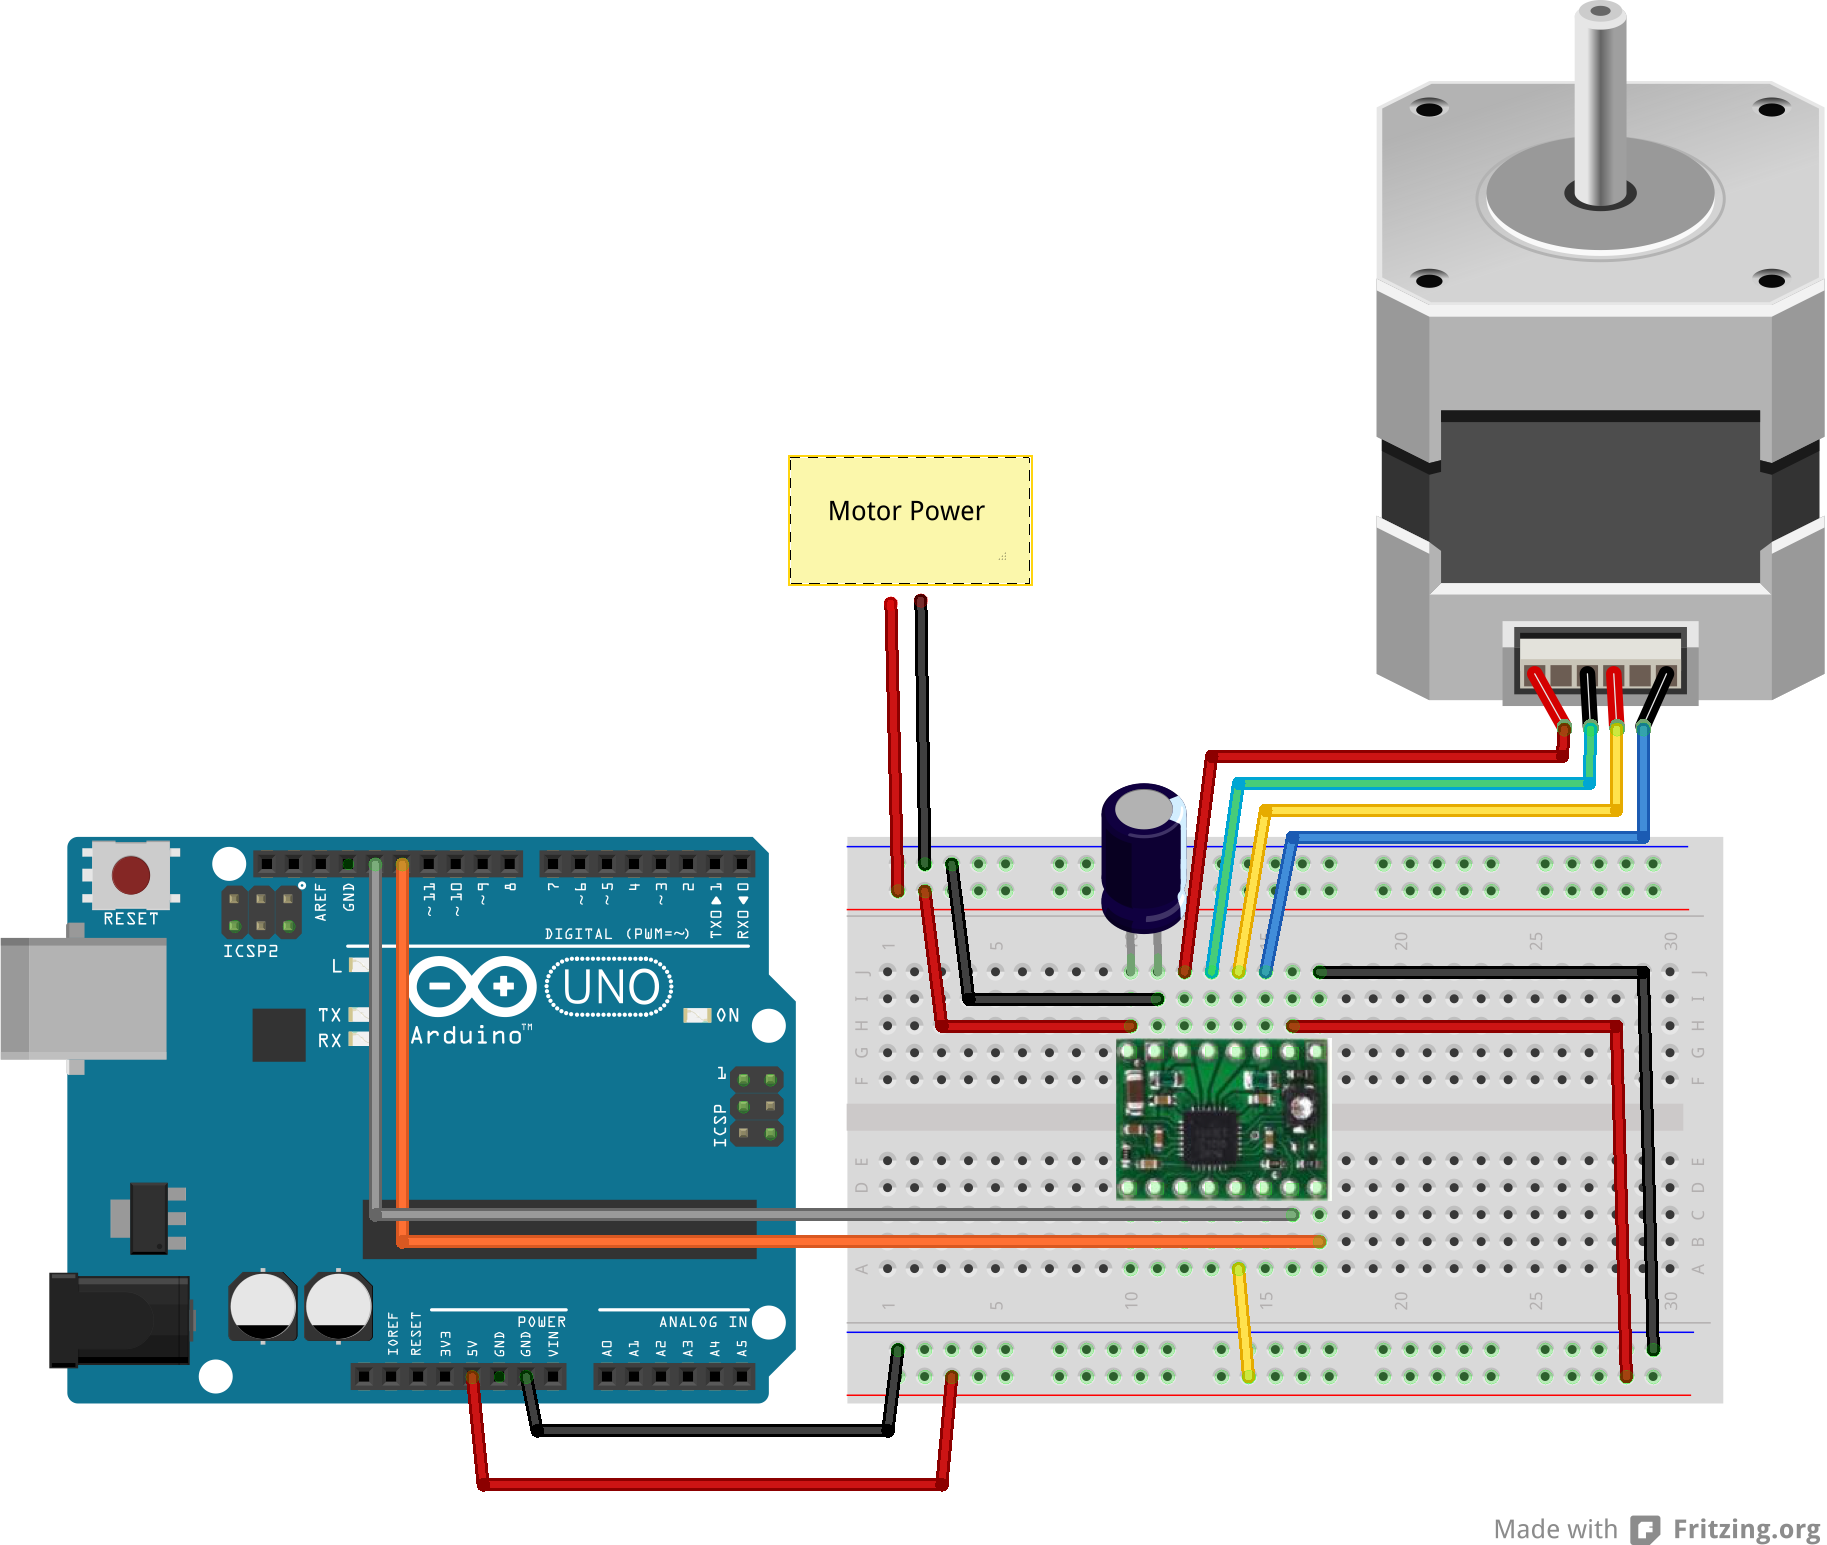
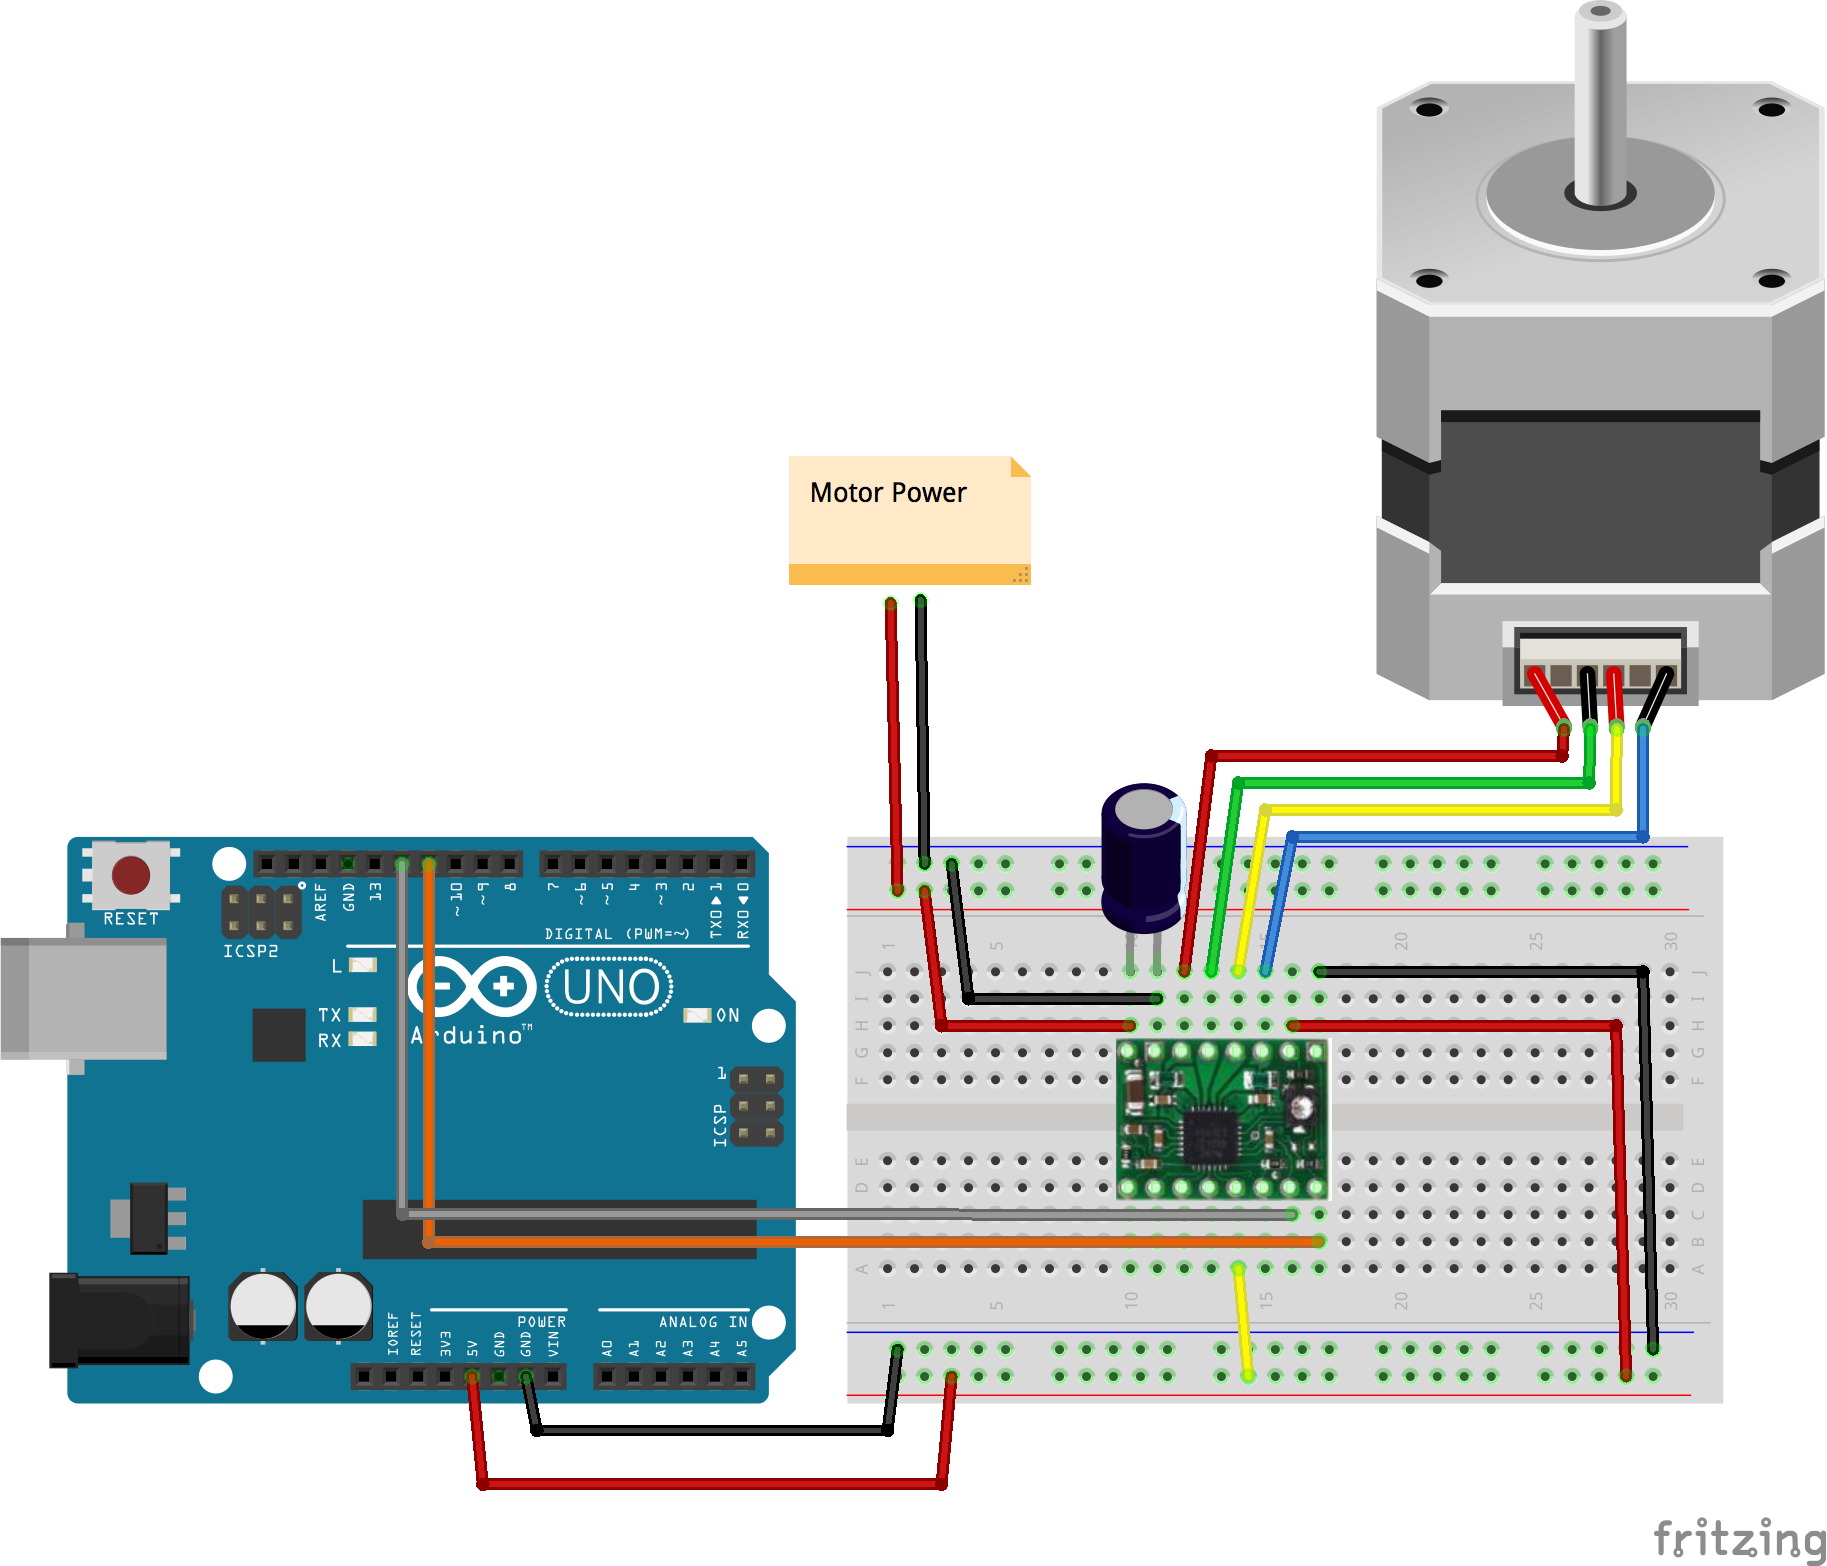
Stepper: fix incorrect pins in code and diagram

diff --git a/eg/stepper-driver.js b/eg/stepper-driver.js
@@ -17,7 +17,7 @@ board.on("ready", function() {
     stepsPerRev: 200,
     pins: {
       step: 11,
-      dir: 13
+      dir: 12
     }
   });
 
